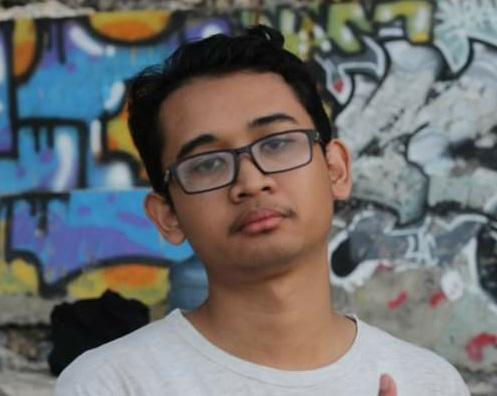
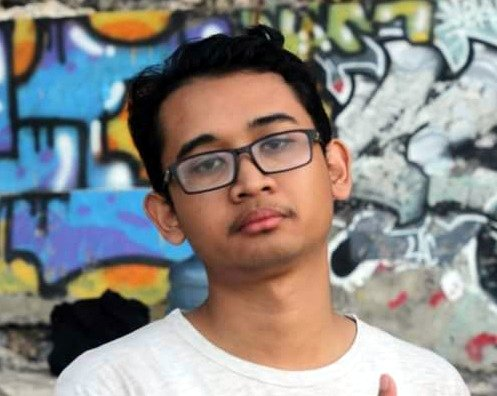
fix profile

diff --git a/_site/about.html b/_site/about.html
@@ -31,9 +31,14 @@
         <!-- <a class="subscribe-button" href="">About Me</a> -->
     </nav>
 </header>
+<style type="text/css">
+    img {
+  border-radius: 5%;
+}
+</style>
 
 
-<main class="content" role="main">
+<main class="content" role="main" style="text-align:center;">
     <article class="post">
         <!-- <header class="post-header">
             <a id="blog-logo" href="">
@@ -42,15 +47,27 @@
                 
             </a>
         </header> -->
+        
+        <img src="/assets/images/profile.jpg" style="height: 60%; width: 60%; object-fit: contain'">
 
-        <h1 class="post-title">About me</h1>
+        <h1 class="post-title">Arta W</h1>
 
         <section class="post-content">
-            <p>This is a static page. It could be an ‘about page’ if you’d like.</p>
+            <p>Hai, Saya Arta Wiguna, tinggal di Indonesia. Bermalas malasan adalah hobi saya. Saya suka membuat program sederhana. Anda bisa melihat program saya <strong><a href="https://github.com/arta678">disini</a>.</strong></p>
+
 
         </section>
 
     </article>
+    <section class="share">
+    <h4>Temukan Saya</h4>
+
+    <a  href="https://facebook.com/artawgn"><i class="fab fa-facebook fa-2x"></i></a>
+    <a  href="https://api.whatsapp.com/send?phone=6283117345545"><i class="fab fa-whatsapp fa-2x"></i></a>
+    <a  href="https://github.com/arta678/"><i class="fab fa-github fa-2x"></i></a>    
+    <a  href="mailto:artawgn678@gmail.com"><i class="fas fa-envelope fa-2x"></i></a>
+        
+</section>
 
 </main>
 

diff --git a/_layouts/page.html b/_layouts/page.html
@@ -15,9 +15,14 @@ post_class: post-template page-template
         <!-- <a class="subscribe-button" href="{{page.about | relative_url}}">About Me</a> -->
     </nav>
 </header>
+<style type="text/css">
+    img {
+  border-radius: 5%;
+}
+</style>
 
 
-<main class="content" role="main">
+<main class="content" role="main" style="text-align:center;">
     <article class="post">
         <!-- <header class="post-header">
             <a id="blog-logo" href="{{site.baseurl}}">
@@ -28,6 +33,8 @@ post_class: post-template page-template
                 {%endif%}
             </a>
         </header> -->
+        
+        <img src="/assets/images/profile.jpg" style="height: 60%; width: 60%; object-fit: contain'">
 
         <h1 class="post-title">{{ page.title }}</h1>
 
@@ -36,5 +43,14 @@ post_class: post-template page-template
         </section>
 
     </article>
+    <section class="share">
+    <h4>Temukan Saya</h4>
+
+    <a  href="https://facebook.com/artawgn"><i class="fab fa-facebook fa-2x"></i></a>
+    <a  href="https://api.whatsapp.com/send?phone=6283117345545"><i class="fab fa-whatsapp fa-2x"></i></a>
+    <a  href="https://github.com/arta678/"><i class="fab fa-github fa-2x"></i></a>    
+    <a  href="mailto:artawgn678@gmail.com"><i class="fas fa-envelope fa-2x"></i></a>
+        
+</section>
 
 </main>

diff --git a/_site/wisuda/2020/10/01/Foto-Wisuda-STIKI.html b/_site/wisuda/2020/10/01/Foto-Wisuda-STIKI.html
@@ -23,7 +23,7 @@
     <header class="main-header post-head no-cover">
     <nav class="main-nav  clearfix">
         <a class="back-button icon-arrow-left" href="/">Home</a>
-        <a class="subscribe-button" href="/about">About Me</a>
+        <a class="subscribe-button" href="/about">Tentang Saya</a>
     </nav>
 </header>
 
@@ -63,9 +63,9 @@
         <section class="post-content">
             <p>Tahun baru kali ini saya menghabiskan waktu bersama keluarga. Pada menjelang malam kami mengadakan bakar bakar sate, ada sate sosis, sate jamur, dan sate ayam.</p>
 
+<p><img src="/assets/foto/wisuda/wisuda3.JPG" alt="wisuda1" /></p>
 <p><img src="/assets/foto/wisuda/wisuda1.JPG" alt="wisuda1" /></p>
 <p><img src="/assets/foto/wisuda/wisuda2.JPG" alt="wisuda1" /></p>
-<p><img src="/assets/foto/wisuda/wisuda3.JPG" alt="wisuda1" /></p>
 
         </section>
 
@@ -96,7 +96,6 @@
     </a>
     <a  href="https://api.whatsapp.com/send?phone=6283117345545"><i class="fab fa-whatsapp"></i></a>
         
-    <a  href="mailto:artawgn678@gmail.com"><i class="fas fa-envelope"></i></a>
     <a  href="mailto:artawgn678@gmail.com"><i class="fas fa-envelope"></i></a>
         
 </section>

diff --git a/_site/tahun-baru/2021/01/01/Tahun-Baru-2021.html b/_site/tahun-baru/2021/01/01/Tahun-Baru-2021.html
@@ -23,7 +23,7 @@
     <header class="main-header post-head no-cover">
     <nav class="main-nav  clearfix">
         <a class="back-button icon-arrow-left" href="/">Home</a>
-        <a class="subscribe-button" href="/about">About Me</a>
+        <a class="subscribe-button" href="/about">Tentang Saya</a>
     </nav>
 </header>
 
@@ -95,7 +95,6 @@
     </a>
     <a  href="https://api.whatsapp.com/send?phone=6283117345545"><i class="fab fa-whatsapp"></i></a>
         
-    <a  href="mailto:artawgn678@gmail.com"><i class="fas fa-envelope"></i></a>
     <a  href="mailto:artawgn678@gmail.com"><i class="fas fa-envelope"></i></a>
         
 </section>

diff --git a/_layouts/post.html b/_layouts/post.html
@@ -8,7 +8,7 @@ post_class: post-template
 <header class="main-header post-head {% if page.cover %}" style="background-image: url({{ page.cover }}) {%else%}no-cover{% endif %}">
     <nav class="main-nav {% if page.cover %} overlay {% endif %} clearfix">
         <a class="back-button icon-arrow-left" href="{{'/' | relative_url }}">Home</a>
-        <a class="subscribe-button" href="{{'/about' | relative_url}}">About Me</a>
+        <a class="subscribe-button" href="{{'/about' | relative_url}}">Tentang Saya</a>
     </nav>
 </header>
 

diff --git a/index.html b/index.html
@@ -12,7 +12,7 @@ about: 'about.html'
                     <img src="{{ page.logo }}" alt="Blog Logo" />
                 </a>
             {% endif %}
-        <a class="subscribe-button " href="{{page.about | relative_url}} ">About Me</a>
+        <a class="subscribe-button " href="{{page.about | relative_url}} ">Tentang Saya</a>
     </nav>
     <div class="vertical">
         <div class="main-header-content inner">

diff --git a/_site/index.html b/_site/index.html
@@ -23,7 +23,7 @@
     <header class="main-header no-cover">
     <nav class="main-nav overlay clearfix">
             
-        <a class="subscribe-button " href="/about.html ">About Me</a>
+        <a class="subscribe-button " href="/about.html ">Tentang Saya</a>
     </nav>
     <div class="vertical">
         <div class="main-header-content inner">

diff --git a/_includes/share.html b/_includes/share.html
@@ -6,6 +6,5 @@
     <a  href="https://api.whatsapp.com/send?phone=6283117345545"><i class="fab fa-whatsapp"></i></a>
         
     <a  href="mailto:artawgn678@gmail.com"><i class="fas fa-envelope"></i></a>
-    <a  href="mailto:artawgn678@gmail.com"><i class="fas fa-envelope"></i></a>
         
 </section>

diff --git a/_posts/2020-11-01-Foto-Wisuda-STIKI.md b/_posts/2020-11-01-Foto-Wisuda-STIKI.md
@@ -7,6 +7,7 @@ categories: Wisuda
 
 <p>Tahun baru kali ini saya menghabiskan waktu bersama keluarga. Pada menjelang malam kami mengadakan bakar bakar sate, ada sate sosis, sate jamur, dan sate ayam.</p>
 
+
+<p><img src="{{site.baseurl}}/assets/foto/wisuda/wisuda3.JPG" alt="wisuda1" /></p>
 <p><img src="{{site.baseurl}}/assets/foto/wisuda/wisuda1.JPG" alt="wisuda1" /></p>
 <p><img src="{{site.baseurl}}/assets/foto/wisuda/wisuda2.JPG" alt="wisuda1" /></p>
-<p><img src="{{site.baseurl}}/assets/foto/wisuda/wisuda3.JPG" alt="wisuda1" /></p>

diff --git a/about.md b/about.md
@@ -1,6 +1,14 @@
 ---
 layout: page
-title: About me 
+title: Arta W 
 ---
 
-This is a static page. It could be an 'about page' if you'd like.
+Hai, Saya Arta Wiguna, tinggal di Indonesia. Bermalas malasan adalah hobi saya. Saya suka membuat program sederhana. Anda bisa melihat program saya **[disini].**
+
+
+
+
+[disini]: https://github.com/arta678
+
+
+
